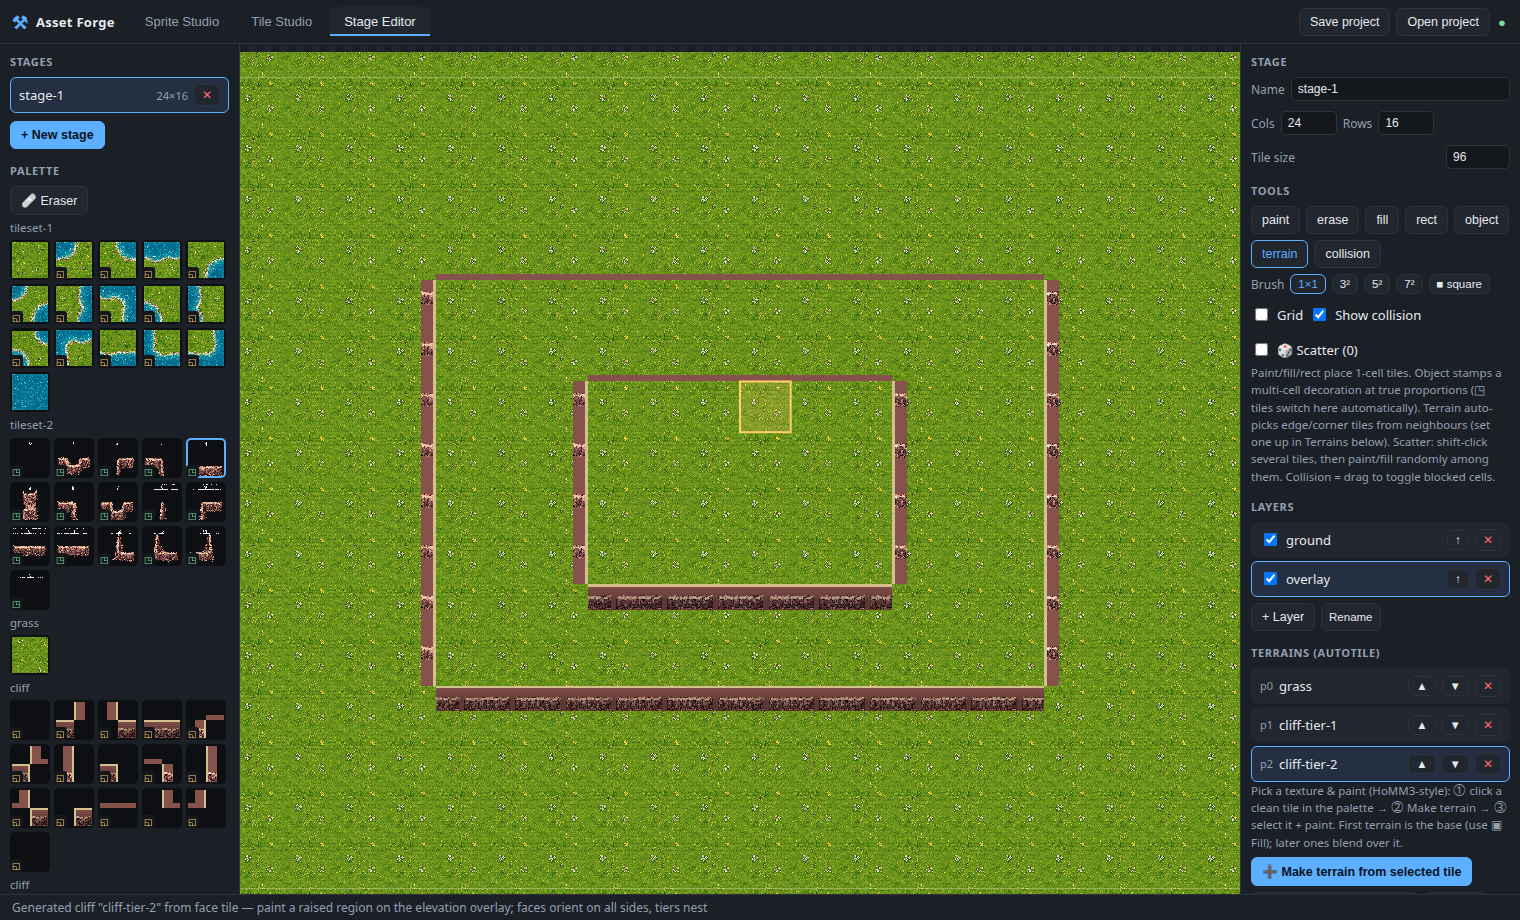
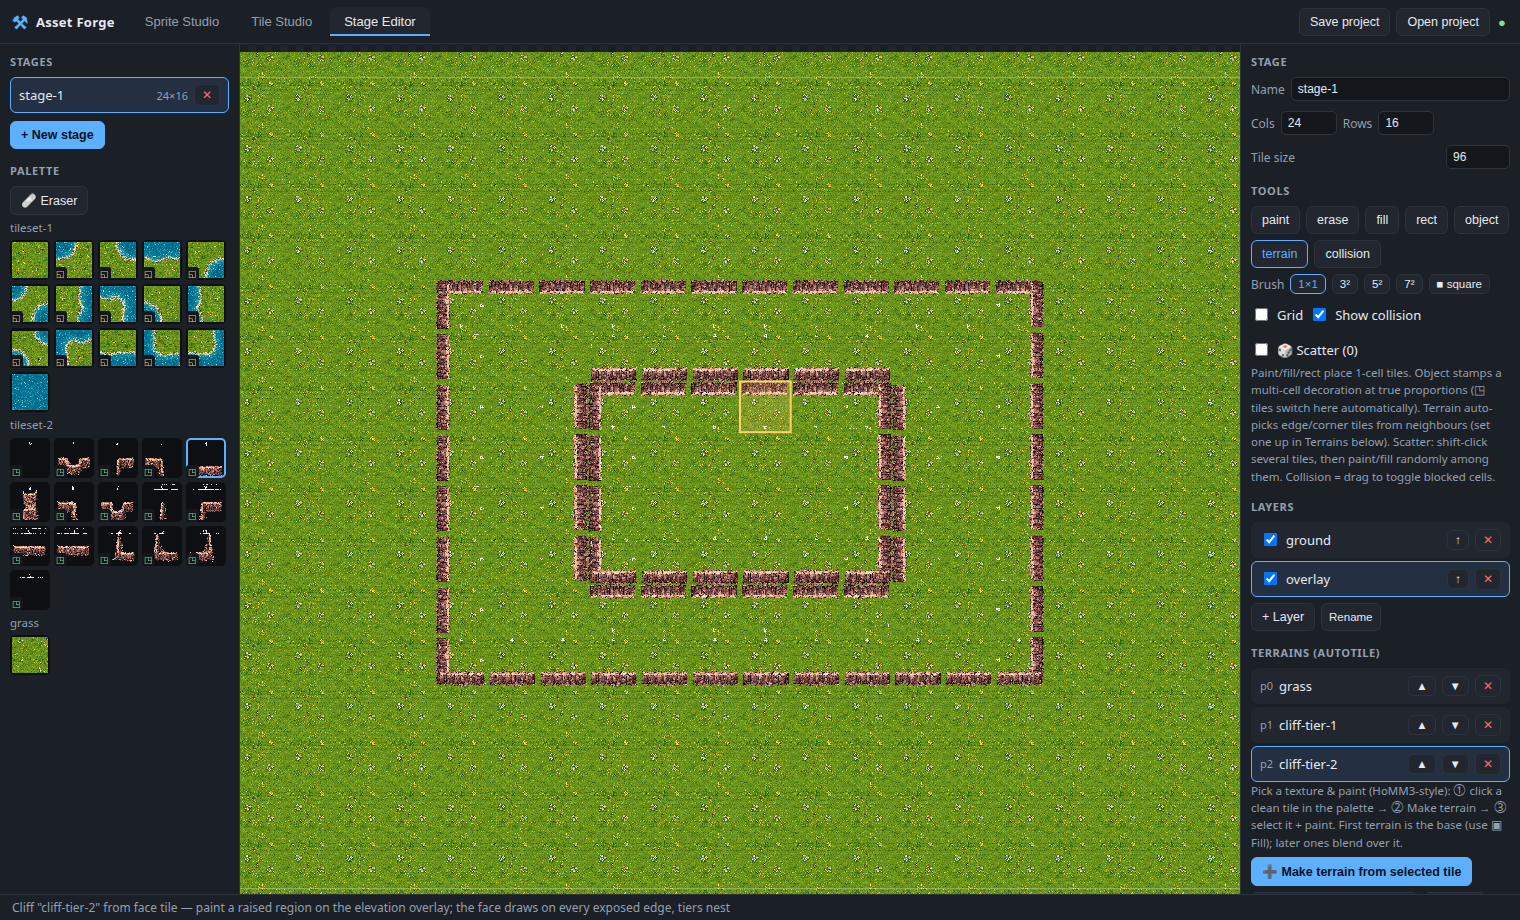
Cliffs: render the real face tile rotated per edge (fix regression)
The flat-colour 'generate a sheet from the face' approach looked regressed —
thin muddy bands, lost the artist's rock texture, fought the source magenta.
Replace it with a dedicated same-grid cliff renderer that draws the artist's
ACTUAL keyed face tile, rotated onto each exposed edge of the painted region:
south as-drawn (the drop), west +90, east -90, north 180; south last so it reads
on top; corners overlay two faces. Real art, transparent interior (terrain shows
through), correct facing/placement, tiers nest.

- types: Terrain kind 'cliff' + faceRef (single south-face tile).
- stage-editor: drawCliffEdges renderer; onPaint treats cliff as membership-only
  like wang; '🏔 Cliff set from face tile' now makes a kind-cliff terrain that
  references the tile directly (no synthesis, no generated source/tileset).
- Removed dead generateCliffWang.
- Re-validated with newcliff2 (docs/shots/44): brown rock on all sides, 2 tiers.

diff --git a/src/stage/stage-editor.ts b/src/stage/stage-editor.ts
@@ -10,7 +10,7 @@ import { downloadBlob } from "../core/download";
 import { packTileset } from "../tile/tile-pack";
 import { resolveCell, EDGE16_SLOTS, maskGlyph } from "./autotile";
 import { drawWangLayer } from "./wang";
-import { generateWang16, generateCliffWang } from "./wang-gen";
+import { generateWang16 } from "./wang-gen";
 import { classifyTileBlob, tileCenter, isSeamlessFill, colorDist, colorName } from "./classify";
 import type { RGB } from "./classify";
 import { importSourceDataUrl } from "../core/image";
@@ -162,7 +162,7 @@ export function mountStageEditor(root: HTMLElement): Editor {
         // Wang terrains render straight from membership (dual-grid) — no data
         // writes. Legacy kinds resolve into the tile layer.
         const at = getProject().terrains.find((t) => t.id === L.activeTerrainId);
-        if (at && at.kind !== "wang") resolveSet(d, layer, cells);
+        if (at && at.kind !== "wang" && at.kind !== "cliff") resolveSet(d, layer, cells);
         vp.render();
       }
       return;
@@ -365,6 +365,7 @@ export function mountStageEditor(root: HTMLElement): Editor {
       if (layer.terrain) {
         drawWangLayer(g, layer.terrain, terrainsById, rank, (r) => L.tileImg.get(r), ts, d.cols, d.rows);
         drawCliffWalls(g, layer, d, ts);
+        drawCliffEdges(g, layer, d, ts);
       }
     }
 
@@ -779,6 +780,37 @@ export function mountStageEditor(root: HTMLElement): Editor {
     }
   }
 
+  /** Draw a kind-"cliff" terrain: the hand-drawn south-face tile, rotated onto
+   * every exposed edge of the painted region (south as-drawn, west +90°, east
+   * −90°, north 180°). Uses the real art directly — no synthesis. South is drawn
+   * last so the main drop reads on top; corners get two overlaid faces. */
+  function drawCliffEdges(g: CanvasRenderingContext2D, layer: StageLayer, d: StageDoc, ts: number): void {
+    const mem = layer.terrain;
+    if (!mem) return;
+    for (const t of getProject().terrains) {
+      if (t.kind !== "cliff" || !t.faceRef) continue;
+      const face = L.tileImg.get(t.faceRef);
+      if (!face) continue;
+      const isC = (x: number, y: number): boolean => x >= 0 && y >= 0 && x < d.cols && y < d.rows && mem[y]?.[x] === t.id;
+      const rot = (x: number, y: number, deg: number): void => {
+        g.save();
+        g.translate((x + 0.5) * ts, (y + 0.5) * ts);
+        g.rotate((deg * Math.PI) / 180);
+        g.drawImage(face, 0, 0, face.width, face.height, -ts / 2, -ts / 2, ts, ts);
+        g.restore();
+      };
+      for (let y = 0; y < d.rows; y++) {
+        for (let x = 0; x < d.cols; x++) {
+          if (!isC(x, y)) continue;
+          if (!isC(x, y - 1)) rot(x, y, 180); // north (back) edge
+          if (!isC(x - 1, y)) rot(x, y, 90);  // west face
+          if (!isC(x + 1, y)) rot(x, y, -90); // east face
+          if (!isC(x, y + 1)) rot(x, y, 0);   // south drop (drawn last/on top)
+        }
+      }
+    }
+  }
+
   /** Scale a tile into a square `size`×`size` canvas. */
   function square(img: HTMLCanvasElement, size: number): HTMLCanvasElement {
     const c = newCanvas(size, size);
@@ -932,35 +964,24 @@ export function mountStageEditor(root: HTMLElement): Editor {
    * wang terrain, but painted on an OVERLAY layer so the raised tier's terrain
    * shows through the transparent interior and faces draw on every edge. Paint
    * a smaller region inside an existing one for the next elevation tier. */
-  /** Generate a full 16-tile cliff-edge set from the selected south-facing face
-   * tile (rock + grass lip) and set it up as an elevation overlay terrain — the
-   * artist only draws one front face; we orient it onto every edge/corner. */
-  async function makeCliffFromFace(): Promise<void> {
+  /** Make a cliff from the selected south-facing face tile: paint a region on
+   * the elevation overlay and the tool draws that one tile (rotated) on every
+   * exposed edge — real art, faces on all sides, tiers nest by painting inside. */
+  function makeCliffFromFace(): void {
     const d = doc();
     if (!d) return;
     if (!L.activeRef) { setStatus("Click the south-facing cliff-face tile in the palette first"); return; }
-    const face = L.tileImg.get(L.activeRef);
-    if (!face) { setStatus("Face tile art not loaded"); return; }
-    const size = d.tileSize || 96;
-    const sheet = generateCliffWang(square(face, size), size);
-    const dataUrl = await blobToDataUrl(await canvasToBlob(sheet));
-    const source = await importSourceDataUrl(uid("src"), "cliff", dataUrl);
-    const tsId = uid("ts");
-    const tiles: TileDef[] = Array.from({ length: 16 }, (_, i) => ({ id: uid("t"), char: "", name: `c${i}`, x: i * size, y: 0, w: size, h: size, blocked: false, sightBlocked: false, tags: [] }));
-    const tileset: TilesetDoc = { id: tsId, name: "cliff", sourceId: source.id, chroma: { enabled: false, tolerance: 0, fringe: 0 }, tileSize: size, grid: { offsetX: 0, offsetY: 0, cols: 16, rows: 1, cellW: size, cellH: size, spacing: 0, inset: 0 }, tiles };
-    const roles: Record<number, string> = {};
-    for (let i = 0; i < 16; i++) roles[i] = `${tsId}/${tiles[i].id}`;
-    const tier = getProject().terrains.filter((t) => /cliff|tier/i.test(t.name)).length + 1;
-    const terrain: Terrain = { id: uid("terr"), name: `cliff-tier-${tier}`, tilesetId: tsId, kind: "wang", roles };
+    if (!L.tileImg.get(L.activeRef)) { setStatus("Face tile art not loaded"); return; }
+    const tier = getProject().terrains.filter((t) => t.kind === "cliff").length + 1;
+    const terrain: Terrain = { id: uid("terr"), name: `cliff-tier-${tier}`, tilesetId: L.activeRef.split("/")[0], kind: "cliff", roles: {}, faceRef: L.activeRef };
     mutate((p) => {
-      p.sources.push(source); p.tilesets.push(tileset); p.terrains.push(terrain);
+      p.terrains.push(terrain);
       if (d.layers.length < 2) d.layers.push({ id: uid("ly"), name: "elevation", visible: true, data: makeGrid(d.cols, d.rows, null) });
     });
-    await ensureTileImages();
     L.activeLayer = d.layers.length - 1;
     L.activeTerrainId = terrain.id;
     L.tool = "terrain";
-    setStatus(`Generated cliff "${terrain.name}" from face tile — paint a raised region on the elevation overlay; faces orient on all sides, tiers nest`);
+    setStatus(`Cliff "${terrain.name}" from face tile — paint a raised region on the elevation overlay; the face draws on every exposed edge, tiers nest`);
     renderSidebar();
     renderInspector();
     vp.render();

diff --git a/src/stage/wang-gen.ts b/src/stage/wang-gen.ts
@@ -15,64 +15,6 @@ function scaled(src: HTMLCanvasElement, size: number): ImageData {
   return g.getImageData(0, 0, size, size);
 }
 
-// Generate a 16-tile corner-Wang CLIFF EDGE set from a single hand-drawn
-// south-facing face tile (rock + grass lip, transparent surround). Hand-authoring
-// orientation-correct dual-grid tiles is error-prone, so instead the artist draws
-// one front face and we place/orient it into every index: south edges get the
-// drop, north a thin lip, E/W vertical side faces, with inner+outer corners. The
-// face's rock texture fills a verified positional mask; idx 0 & 15 stay empty.
-export function generateCliffWang(faceImg: HTMLCanvasElement, size: number): HTMLCanvasElement {
-  const S = size;
-  const fc = newCanvas(S, S);
-  ctx2d(fc).drawImage(faceImg, 0, 0, faceImg.width, faceImg.height, 0, 0, S, S);
-  const fd = ctx2d(fc).getImageData(0, 0, S, S).data;
-  // Median rock colour from opaque pixels; a "patch" = the face with its
-  // transparent surround filled by that median, so rock sampling never bleeds.
-  const rs: number[] = [], gs: number[] = [], bs: number[] = [];
-  for (let i = 0; i < fd.length; i += 4) if (fd[i + 3] > 120) { rs.push(fd[i]); gs.push(fd[i + 1]); bs.push(fd[i + 2]); }
-  const med = (a: number[]): number => { if (!a.length) return 110; a.sort((p, q) => p - q); return a[a.length >> 1]; };
-  const mr = med(rs), mg = med(gs), mb = med(bs);
-  const patch = new Uint8ClampedArray(fd);
-  for (let i = 0; i < patch.length; i += 4) if (patch[i + 3] <= 120) { patch[i] = mr; patch[i + 1] = mg; patch[i + 2] = mb; patch[i + 3] = 255; }
-  const W = S * 16;
-  const sheet = newCanvas(W, S);
-  const g = ctx2d(sheet);
-  const od = g.createImageData(W, S);
-  const cx = S >> 1, cy = S >> 1;
-  const Tsouth = Math.round(S * 0.5), Tside = Math.round(S * 0.3), Tnorth = Math.round(S * 0.12), LIP = Math.max(2, Math.round(S * 0.05));
-  const quad = (c: number, r: number): number => (c === 0 ? (r === 0 ? 1 : 8) : (r === 0 ? 2 : 4)); // TL,BL,TR,BR
-  for (let idx = 0; idx < 16; idx++) {
-    for (let y = 0; y < S; y++) {
-      for (let x = 0; x < S; x++) {
-        const col = x < cx ? 0 : 1, row = y < cy ? 0 : 1;
-        const oi = (y * W + idx * S + x) * 4;
-        if (idx & quad(col, row)) { od.data[oi + 3] = 0; continue; } // plateau top → transparent
-        const va = row === 1 && (idx & quad(col, 0)); // high above → south drop
-        const vb = row === 0 && (idx & quad(col, 1)); // high below → north lip
-        const hh = idx & quad(1 - col, row);          // high beside → side face
-        let rock = false, lp = false;
-        if (va && y >= cy && y < cy + Tsouth) rock = true;
-        if (va && y >= cy && y < cy + LIP) lp = true;
-        if (vb && y >= cy - Tnorth && y < cy) rock = true;
-        if (hh) {
-          if (col === 0 && x >= cx - Tside && x < cx) rock = true;
-          if (col === 1 && x >= cx && x < cx + Tside) rock = true;
-          if (col === 0 && x >= cx - LIP && x < cx) lp = true;
-          if (col === 1 && x >= cx && x < cx + LIP) lp = true;
-        }
-        if (lp) { od.data[oi] = 210; od.data[oi + 1] = 193; od.data[oi + 2] = 140; od.data[oi + 3] = 255; }
-        else if (rock) {
-          const pi = (y * S + x) * 4;
-          const d = va ? Math.min(0.32, (y - cy) / (S - cy) * 0.5) : 0; // darken the drop downward
-          od.data[oi] = patch[pi] * (1 - d); od.data[oi + 1] = patch[pi + 1] * (1 - d); od.data[oi + 2] = patch[pi + 2] * (1 - d); od.data[oi + 3] = 255;
-        } else od.data[oi + 3] = 0;
-      }
-    }
-  }
-  g.putImageData(od, 0, 0);
-  return sheet;
-}
-
 export function generateWang16(fillImg: HTMLCanvasElement, baseImg: HTMLCanvasElement, size: number): HTMLCanvasElement {
   const fill = scaled(fillImg, size);
   const base = scaled(baseImg, size);

diff --git a/src/core/types.ts b/src/core/types.ts
@@ -132,9 +132,13 @@ export interface Terrain {
   id: string;
   name: string;
   tilesetId: string;
-  kind: "edge16" | "blob47" | "path" | "wang";
+  kind: "edge16" | "blob47" | "path" | "wang" | "cliff";
   /** maskValue -> tile ref. */
   roles: Record<number, string>;
+  /** kind "cliff": a single south-facing cliff-face tile ref. Painted as a
+   * region; the face is drawn (rotated) on every exposed edge of the region, so
+   * one hand-drawn front face yields cliffs on all sides. Tiers nest. */
+  faceRef?: string;
   /** Cliff wall, drawn on the cells directly below this terrain's south edge
    * (RPG-Maker-A4 style). `tiles` is a 9-entry array of tile refs laid out
    * row-major [topL,topC,topR, midL,midC,midR, baseL,baseC,baseR]; `height` is
